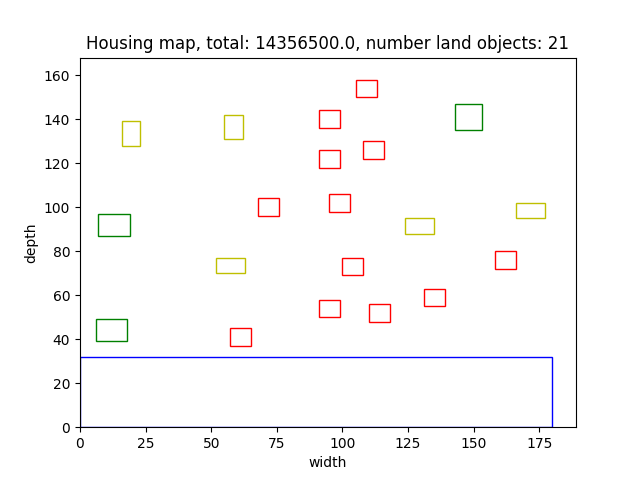
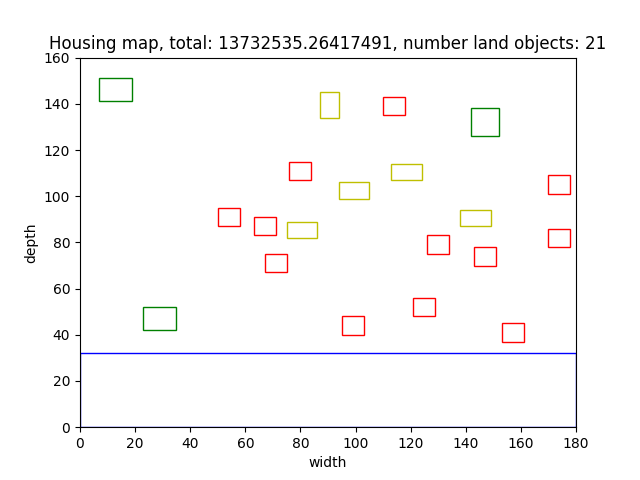
sim annealing new

diff --git a/project_code/algorithms/simulated_annealing.py b/project_code/algorithms/simulated_annealing.py
@@ -53,10 +53,9 @@ class Simulated_annealing():
             new_map = highest_map
 
             # checken wat het vershil in totale prijs is
-            price_new_map = round(self.calc_price(new_map), 2)
-            print(f"price new map:{price_new_map}")
+            price_new_map = self.calc_price(new_map)
 
-            difference = price_new_map - round(current_state.total, 2)
+            difference = price_new_map - current_state.total
             if counter2 <= 25:
                 if difference == 0.0:
                     counter += 1
@@ -67,13 +66,14 @@ class Simulated_annealing():
                             current_temp = 6500
                 else:
                     counter = 0 
-                print(counter)
+                # print(counter)
                 
-                print(counter2)
+                # print(counter2)
 
-            print(f"difference: {difference}")
+            # print(f"difference: {difference}")
 
             # if price stays the same for 10000 times the algoritm stops
+            print(price_counter)
             if price_new_map == current_state.total:
                 price_counter += 1
                 if price_counter >= 10000:
@@ -92,6 +92,6 @@ class Simulated_annealing():
   
             current_temp = current_temp - alpha
 
-            print(round(current_state.total, 2))
+            print(current_state.total)
         
         return current_state

diff --git a/project_code/algorithms/helpers.py b/project_code/algorithms/helpers.py
@@ -66,11 +66,11 @@ def rotate(start_map):
     while (old_house.name == 'water'):
         old_house = random_choice(copy_start_map.all_land_objects)
     
-    placement = old_house.placement
-    if placement == 'vertical':
-        rotation_finished = rotation(old_house.bottom_left, old_house.width, old_house.depth, 'horizontal', old_house.free_space)
-    else:
-        rotation_finished = rotation(old_house.bottom_left, old_house.width, old_house.depth, 'vertical', old_house.free_space)
+    # placement = old_house.placement
+    # if placement == 'vertical':
+        # rotation_finished = rotation(old_house.bottom_left, old_house.width, old_house.depth, 'horizontal', old_house.free_space)
+    # else:
+    rotation_finished = rotation(old_house.bottom_left, old_house.width, old_house.depth, 'vertical', old_house.free_space)
 
     new_house = House(old_house.name, rotation_finished[0], rotation_finished[1], old_house.price, old_house.bottom_left, rotation_finished[2], old_house.free_space, rotation_finished[3])
     copy_start_map.all_land_objects.remove(old_house)
@@ -320,3 +320,4 @@ def move_house(start_map):
                 best_map = copy_start_map
 
     return best_map
+

diff --git a/project_code/classes/land.py b/project_code/classes/land.py
@@ -31,8 +31,12 @@ class Land():
         # checks all land objects if overlap return true
         for land_object in self.all_land_objects:
             if land_object.name != 'water':
-                # if house.polygon_free_space.intersects(land_object.polygon) == True or land_object.polygon_free_space.intersects(house.polygon_free_space) == True:
-                if house.polygon.intersects(land_object.polygon) == True:
+
+                # with constraints
+                if house.polygon_free_space.intersects(land_object.polygon) == True or land_object.polygon_free_space.intersects(house.polygon_free_space) == True:
+                
+                # without constraints
+                # if house.polygon.intersects(land_object.polygon) == True:
                     return True        
             elif land_object.name == 'water':
                 if land_object.polygon.intersects(house.polygon) == True:
